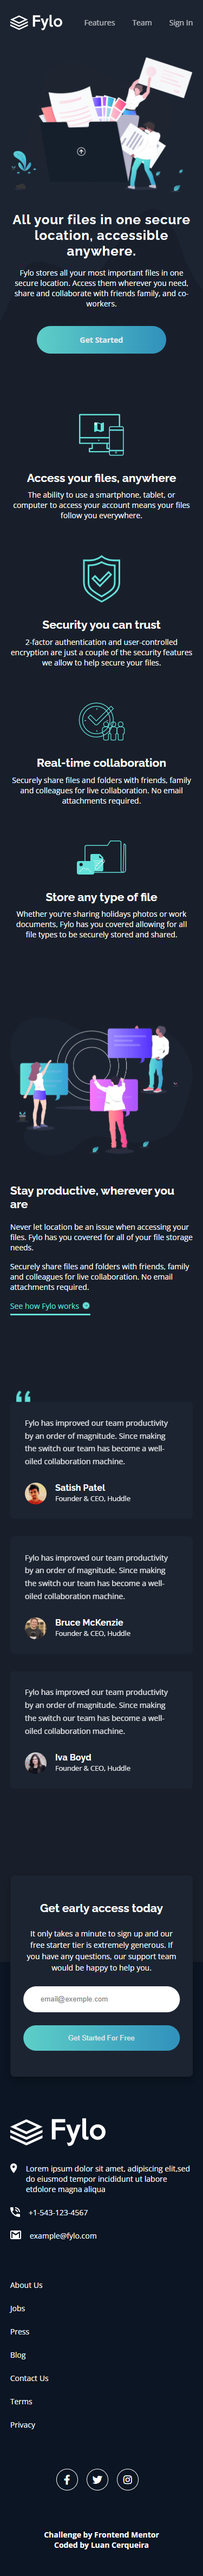
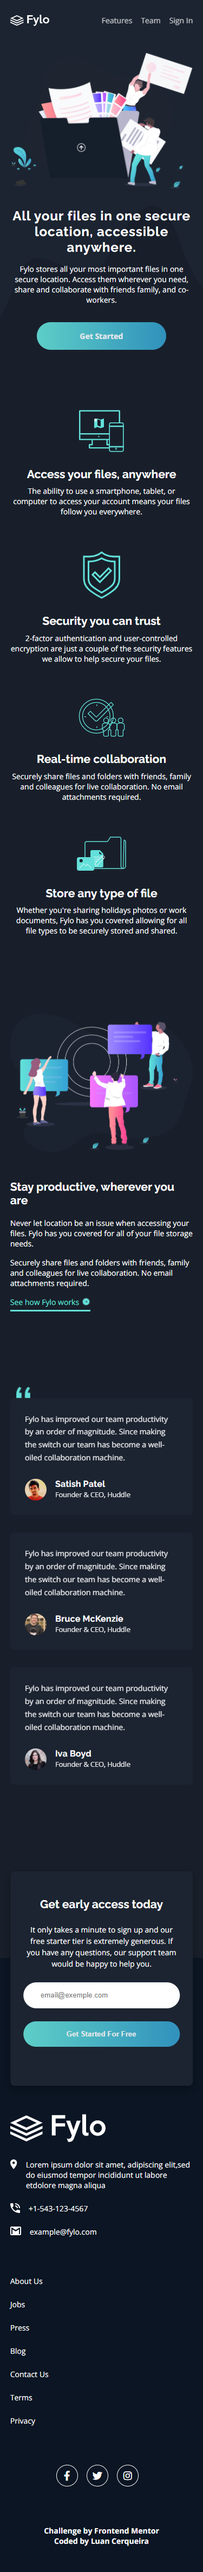
Done

diff --git a/src/css/styles.css b/src/css/styles.css
@@ -82,7 +82,7 @@ img {
   margin-top: 1.7rem;
 }
 .header-logo {
-  width: 6rem;
+  width: 4.5rem;
 }
 .header .nav-links {
   display: flex;

diff --git a/src/sass/_header.scss b/src/sass/_header.scss
@@ -8,7 +8,7 @@
     margin-top: 1.7rem;
     
     &-logo {
-        width: 6rem;
+        width: 4.5rem;
     }
 
     .nav-links {
